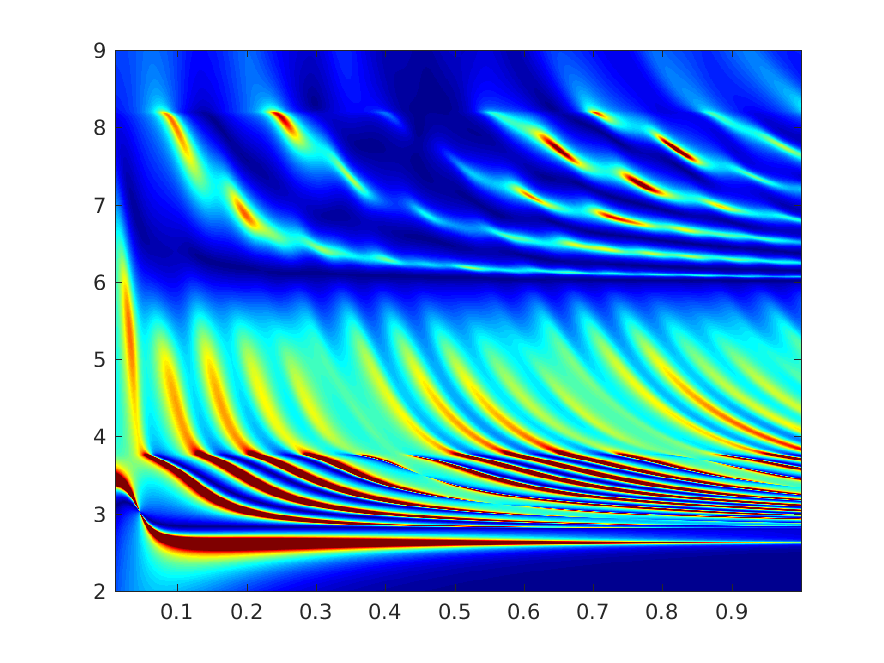
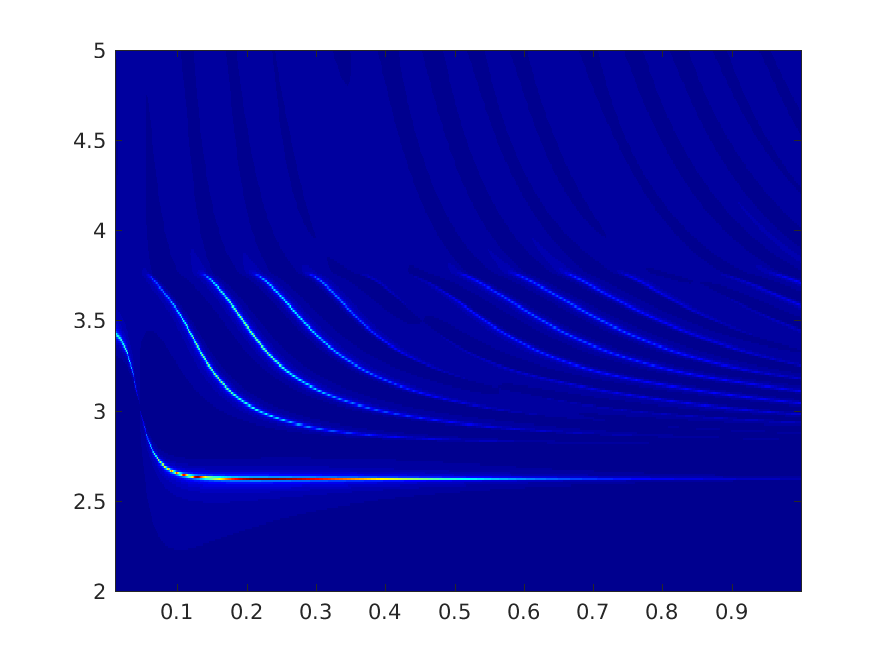
Theoretical Dispersion Sepctrum Calculation

diff --git a/bin/set_grt.m b/bin/set_grt.m
@@ -80,8 +80,7 @@ v = linspace(vmin,vmax,nv);
 tmp = load(filename);
 data = reshape(tmp,nv,nf);
 figure;imagesc(f,v,data);set(gca,'YDir','normal')
-caxis([0,0.05])
-axis([0.01,1,2,9])
+axis([0.01,1,2,5])
 colormap(jet)
 print('-dpng',[out,'.png'])
 fnm = [out,'.nc'];
